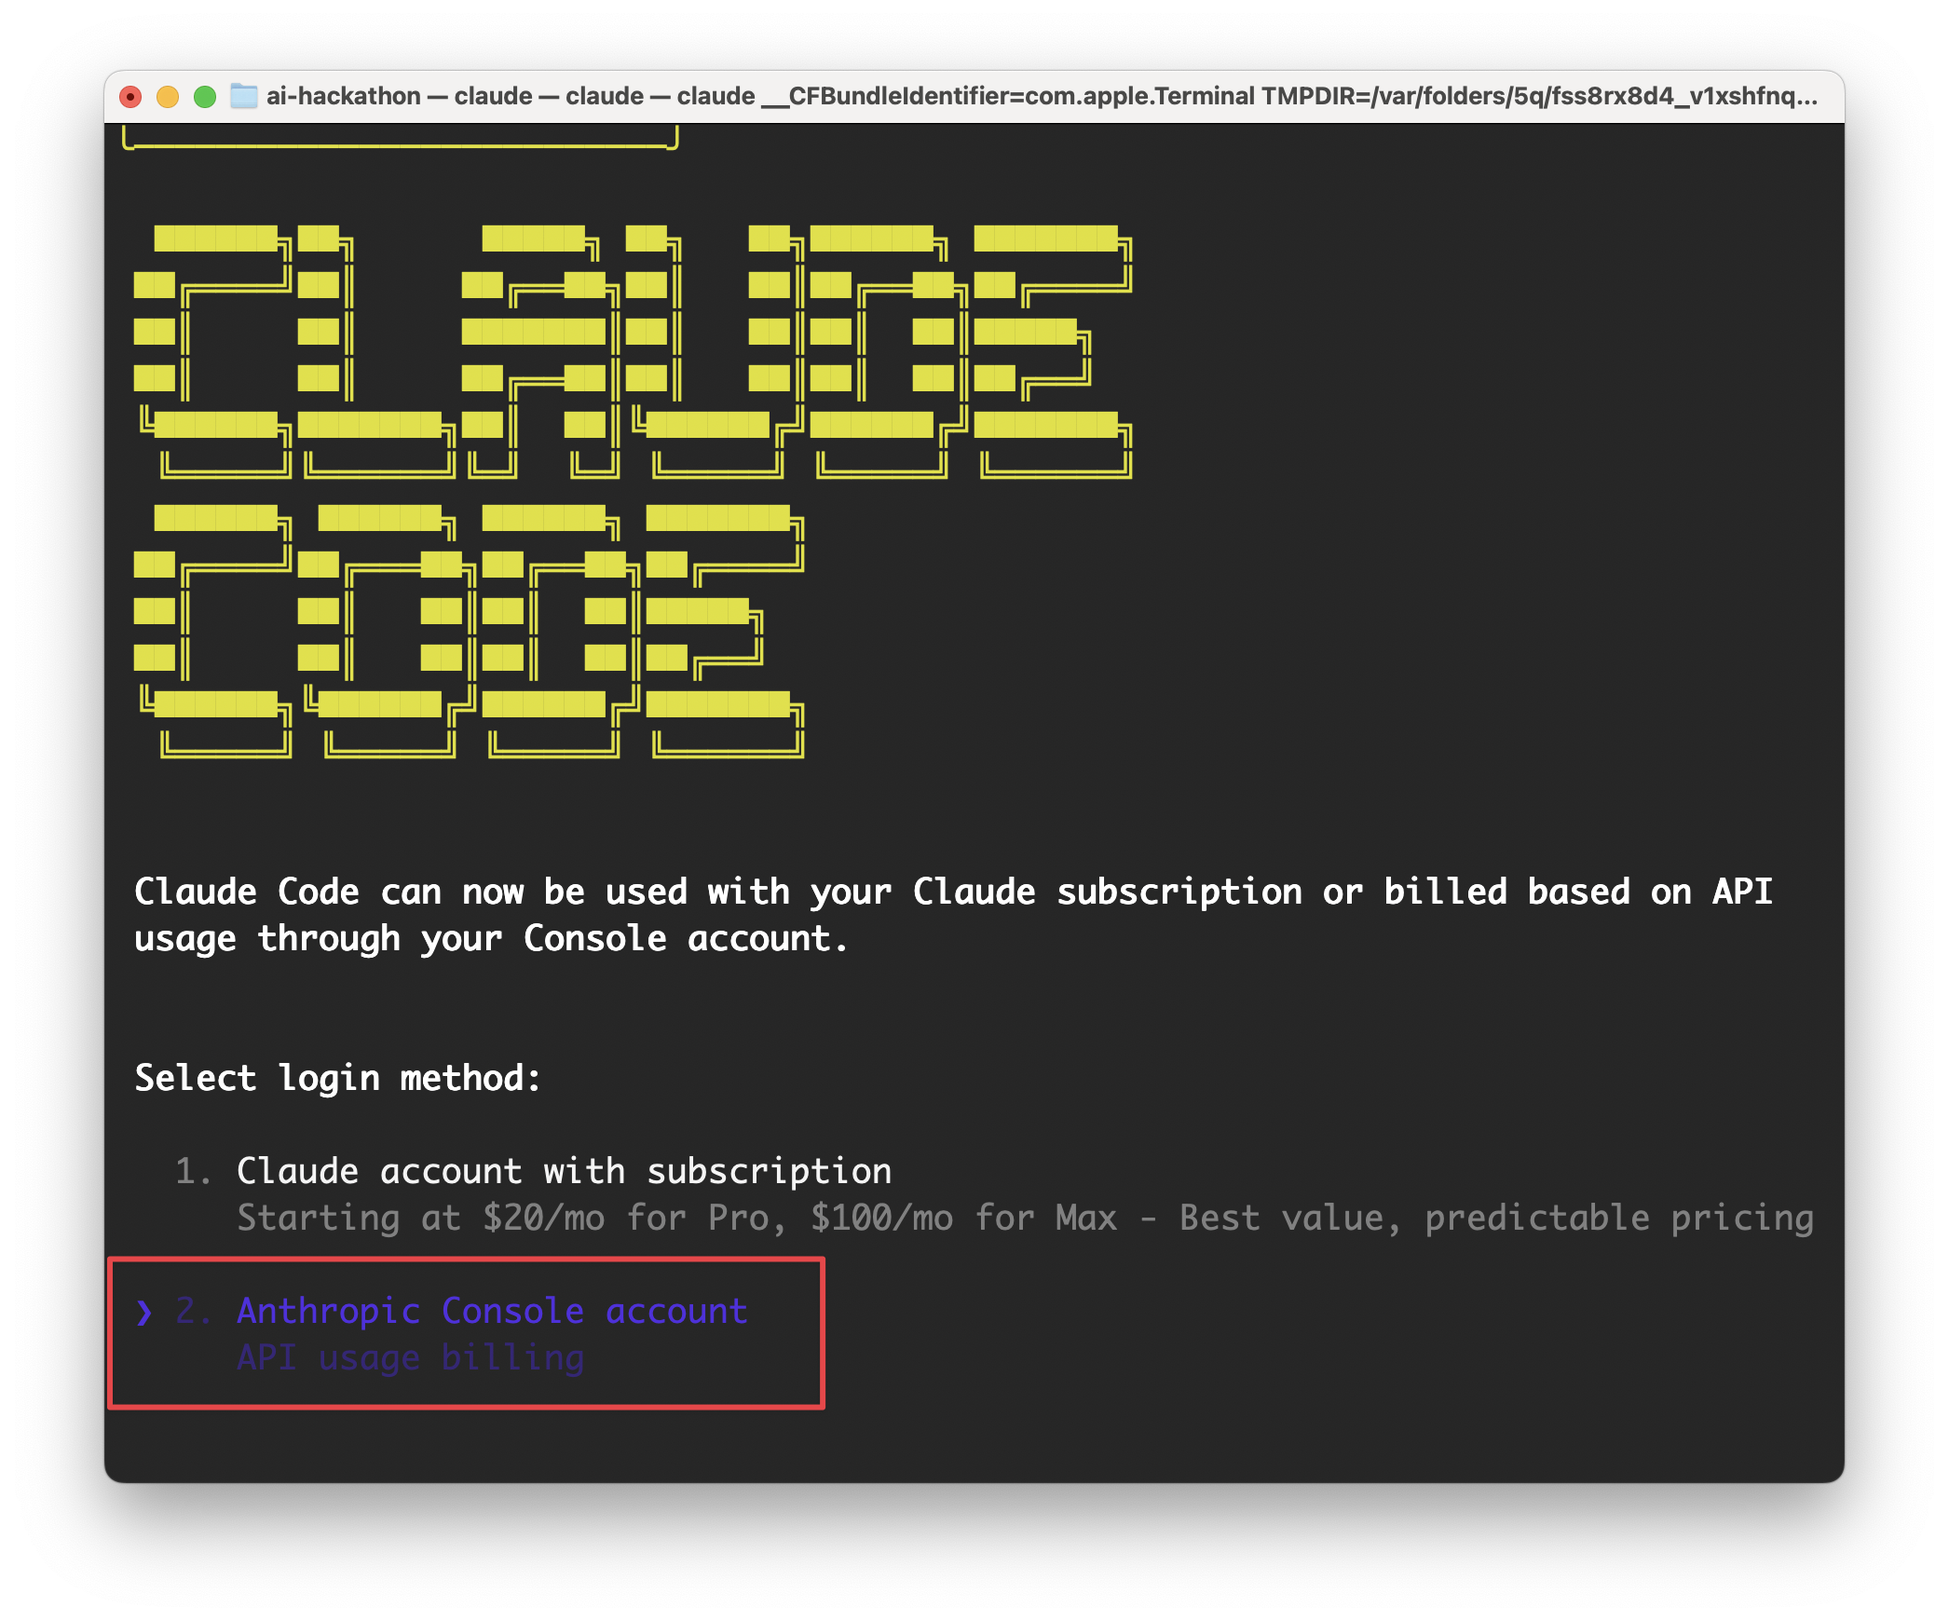
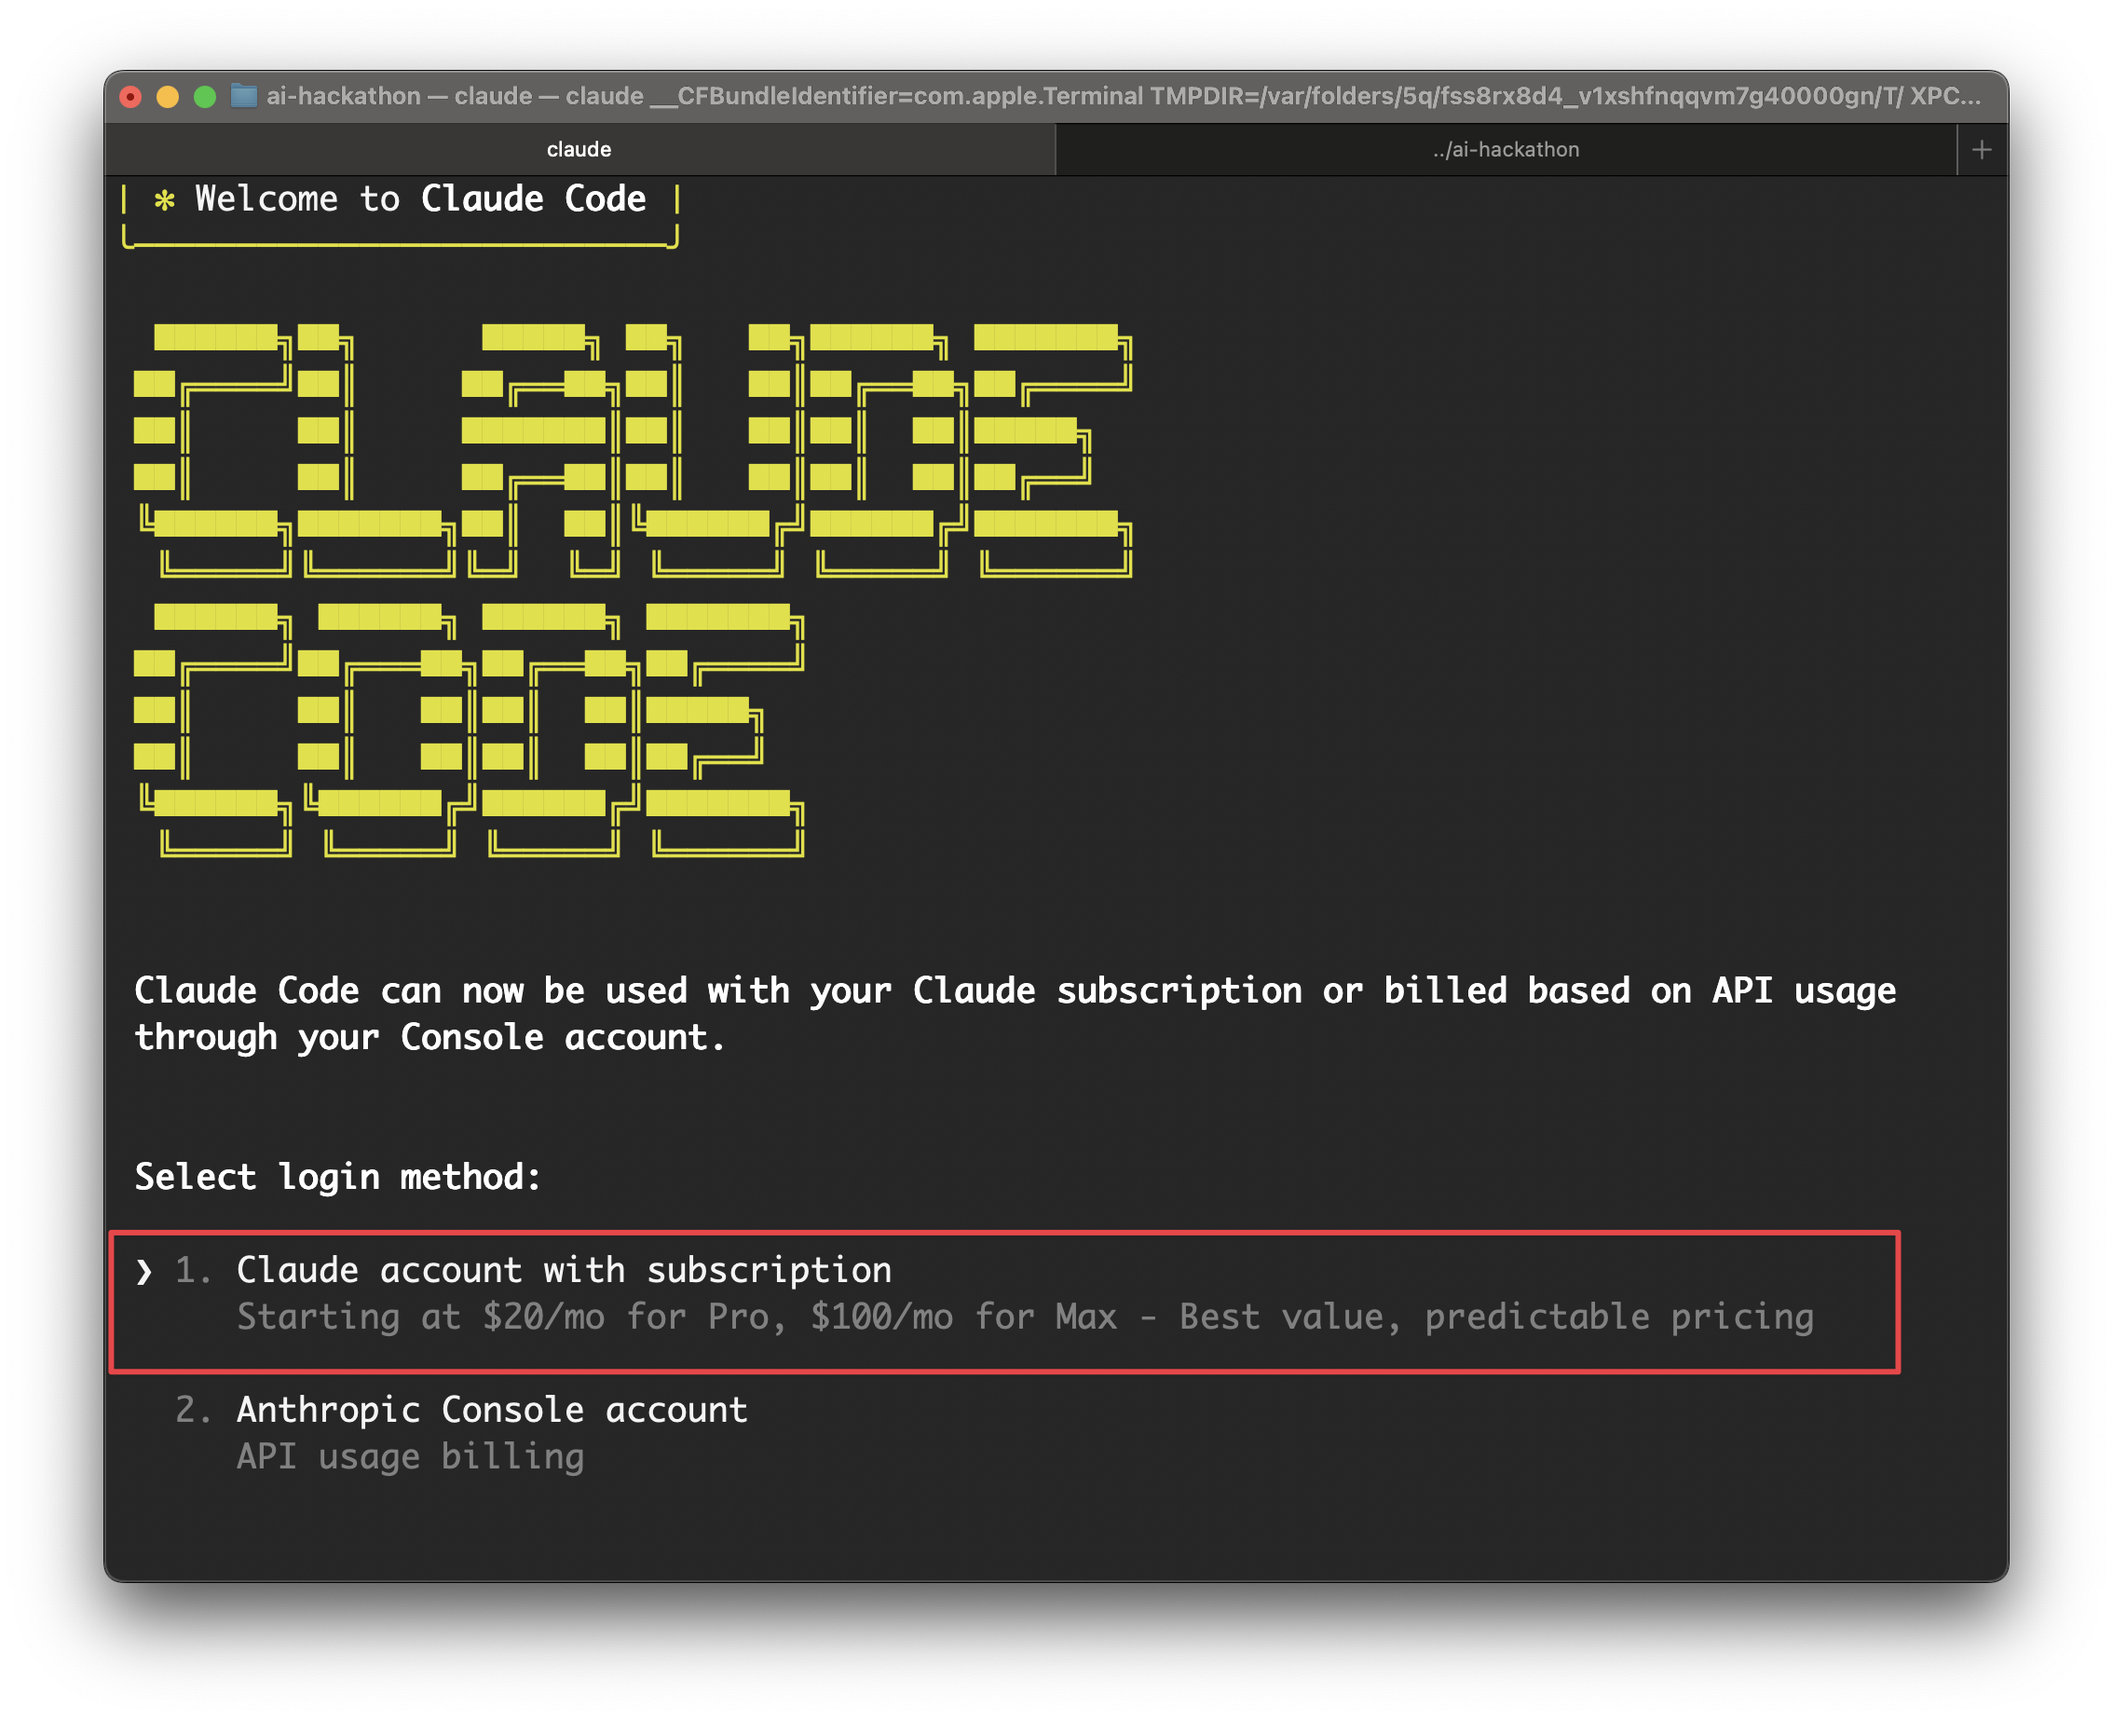
update README

Changed region(s): [[0.0311, 0.031, 0.9632, 0.9621], [0.4039, 0.8379, 0.435, 0.869]]

diff --git a/README.md b/README.md
@@ -6,11 +6,9 @@ Welcome to the AI Hackathon! Follow these steps to get your machine ready for Cl
 
 ## 📧 1. Sign Up for Anthropic
 
-You will receive an invitation email from **Anthropic**.
-
-- Click the link in the email.
-- Register for an account using your preferred email address.
-- Once signed in, you'll have access to Claude and API tools.
+- Please create an account on claude.ai using your @therealbrokerage.com email address
+- Your team lead will meet with you to setup your account with a company credit card to have a Claude Max plan. Make sure that this is a PERSONAL plan.
+- Please confirm that you are on the Claude Max plan.
 
 ---
 
